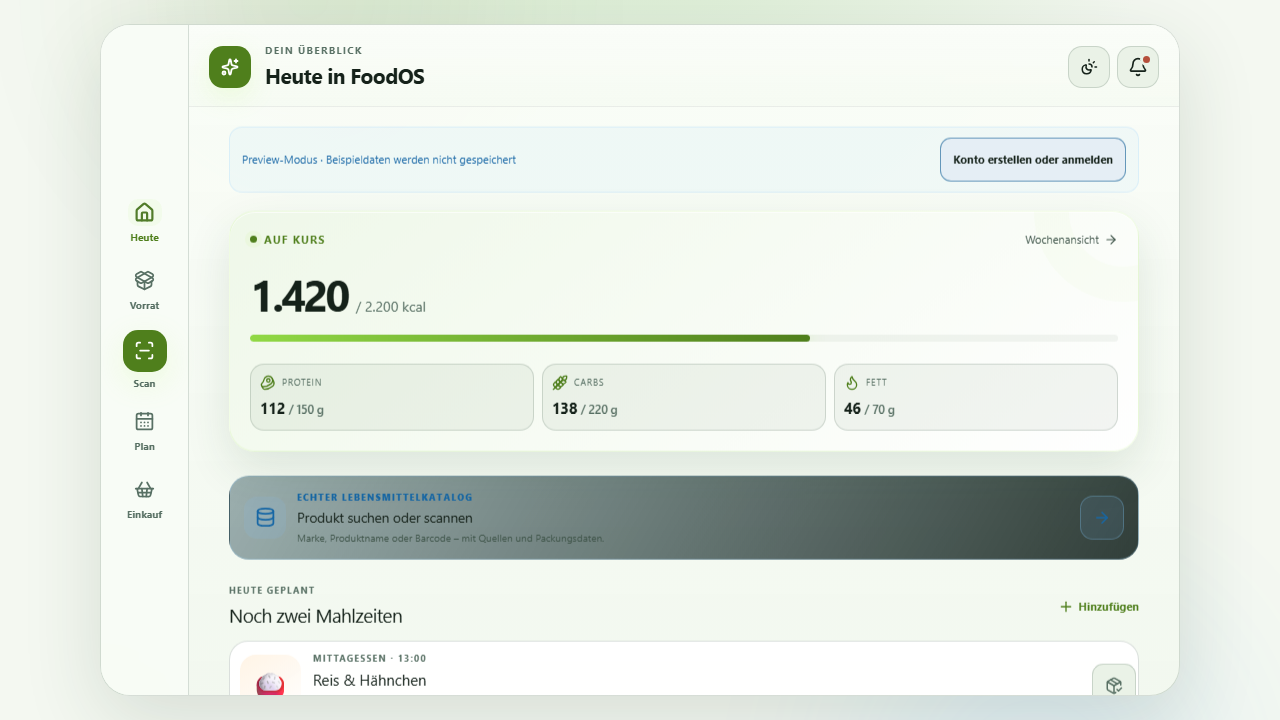
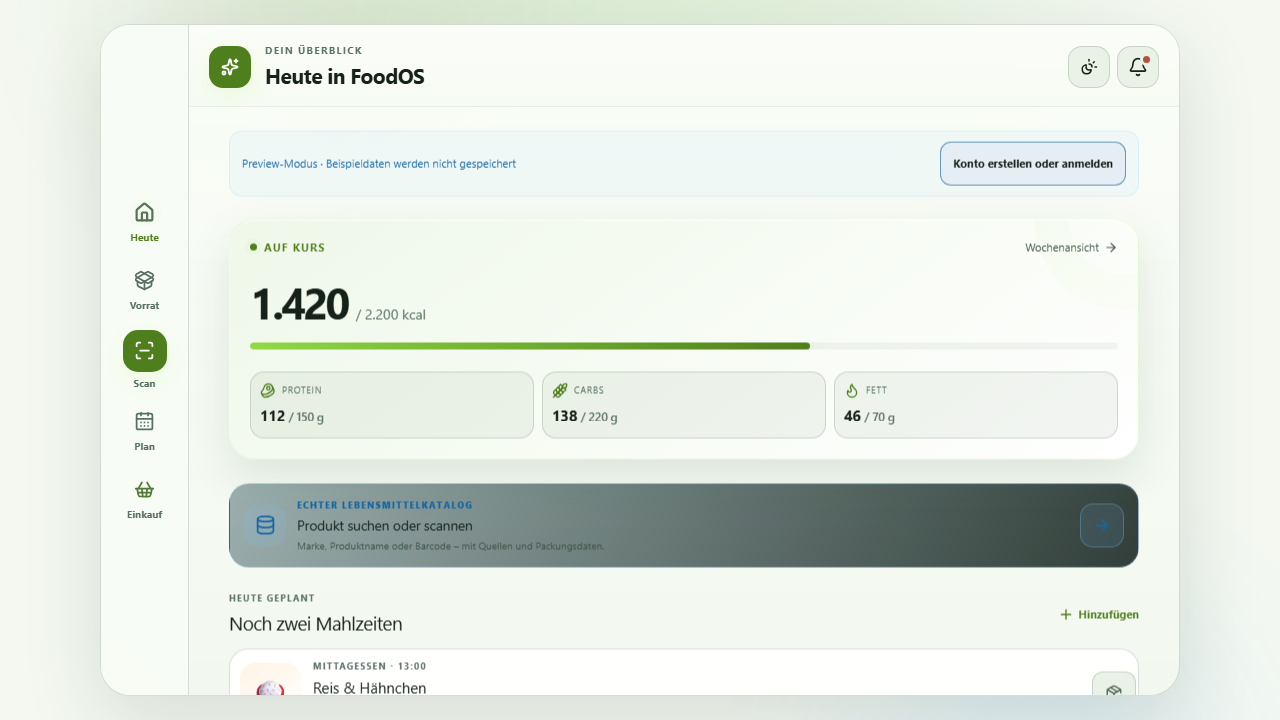
test: verify source-backed protein image

diff --git a/e2e/preview-navigation.spec.ts b/e2e/preview-navigation.spec.ts
@@ -75,29 +75,29 @@ test.describe("Q-UX-PRIMARY-ACTION-E2E-001 preview shell", () => {
           providerStatus: "live",
           hasMore: false,
           results: [{
-            barcode: "3017624010701",
+            barcode: "4255773600520",
             name: "Rühls Bestes Whey Protein",
             brand: "Rühls Bestes",
             quantity: "1 kg",
-            imageUrl: "https://images.openfoodfacts.org/images/products/301/762/401/0701/front_de.3.200.jpg",
+            imageUrl: "https://images.openfoodfacts.org/images/products/425/577/360/0520/front_en.18.400.jpg",
             source: "open-food-facts",
-            sourceUrl: "https://world.openfoodfacts.org/product/3017624010701",
+            sourceUrl: "https://world.openfoodfacts.org/product/4255773600520",
             confidence: 0.82
           }]
         })
       });
     });
-    await page.route("**/api/products/3017624010701?*", async (route) => {
+    await page.route("**/api/products/4255773600520?*", async (route) => {
       await route.fulfill({
         contentType: "application/json",
         body: JSON.stringify({
           globalCatalogStatus: "not-configured",
           product: {
-            barcode: "3017624010701",
+            barcode: "4255773600520",
             name: "Rühls Bestes Whey Protein",
             brand: "Rühls Bestes",
             quantity: "1 kg",
-            imageUrl: "https://images.openfoodfacts.org/images/products/301/762/401/0701/front_de.3.200.jpg",
+            imageUrl: "https://images.openfoodfacts.org/images/products/425/577/360/0520/front_en.18.400.jpg",
             categories: ["Protein"],
             countries: ["Deutschland"],
             labels: [],
@@ -109,7 +109,7 @@ test.describe("Q-UX-PRIMARY-ACTION-E2E-001 preview shell", () => {
             nutrition: { kcal100g: 371, protein100g: 74, carbs100g: 6.6, fat100g: 6.2 },
             assessments: [],
             source: "open-food-facts",
-            sourceUrl: "https://world.openfoodfacts.org/product/3017624010701",
+            sourceUrl: "https://world.openfoodfacts.org/product/4255773600520",
             sourceLanguage: "de",
             retrievedAt: "2026-08-04T10:00:00.000Z",
             confidence: 0.82
